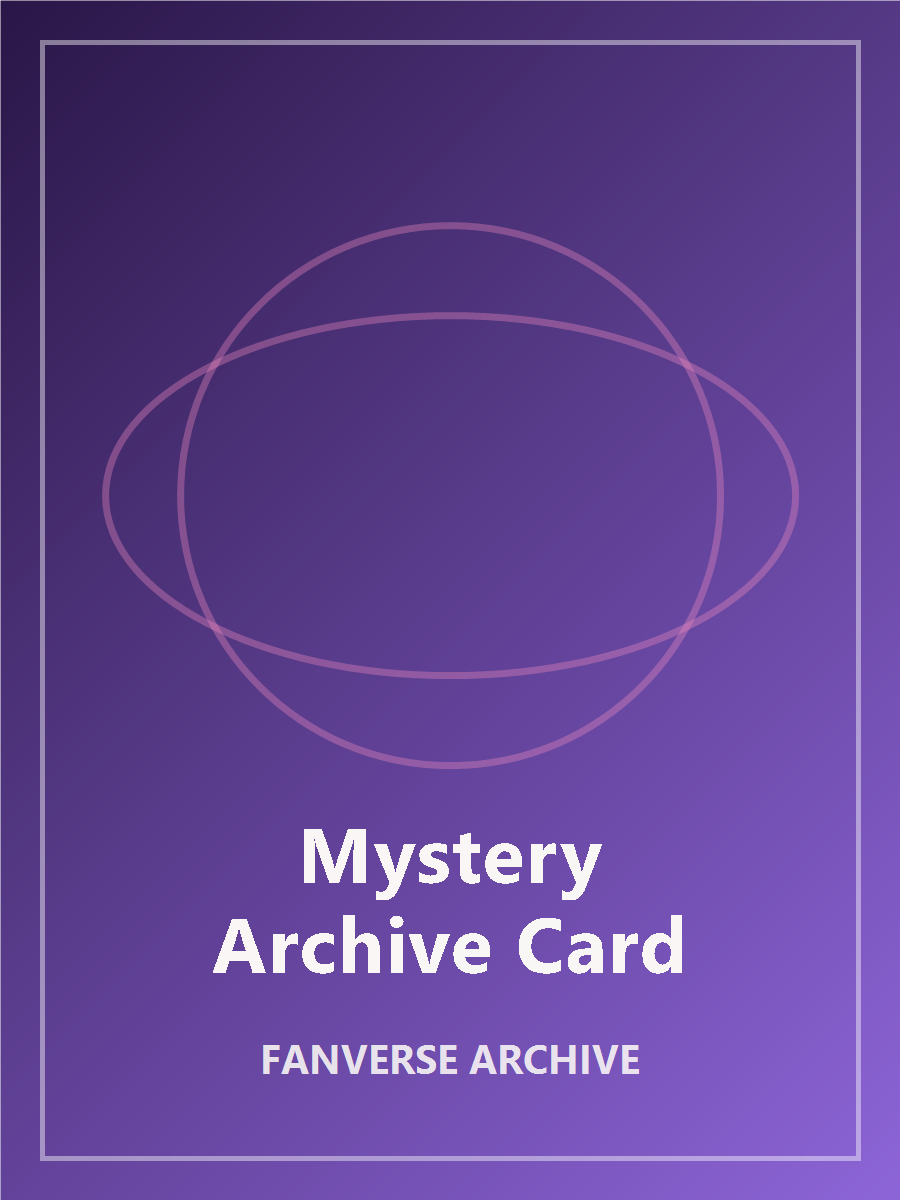
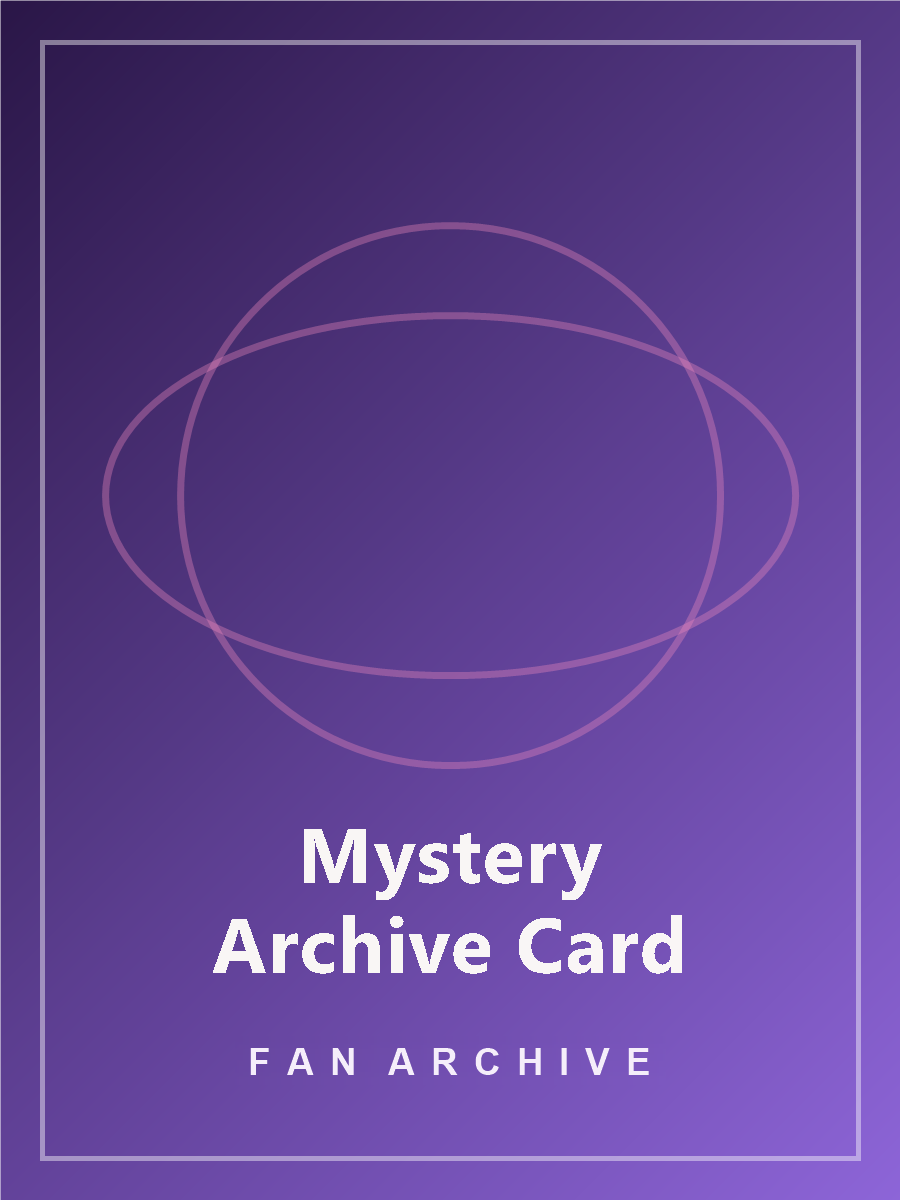
Changed the name from fanverse Archive to only Fan Archive

Changed region(s): [[0.28, 0.8633, 0.7156, 0.8942]]

diff --git a/src/components/Navbar/Navbar.jsx b/src/components/Navbar/Navbar.jsx
@@ -26,7 +26,7 @@ function Navbar() {
       .map((part) => part[0])
       .join('')
       .slice(0, 2)
-      .toUpperCase() || 'FV'
+      .toUpperCase() || 'FA'
 
   const handleSignOut = async () => {
     await signOut()
@@ -34,10 +34,10 @@ function Navbar() {
 
   return (
     <header className="navbar">
-      <NavLink aria-label="FanVerse Archive home" className="navbar__brand" to="/">
-        <img src="/logo.jpeg" className="navbar__mark" alt="FanVerse logo" />
+      <NavLink aria-label="Fan Archive home" className="navbar__brand" to="/">
+        <img src="/logo.jpeg" className="navbar__mark" alt="Fan Archive logo" />
         <span>
-          <strong>FanVerse</strong>
+          <strong>Fan</strong>
           <span>Archive</span>
         </span>
       </NavLink>

diff --git a/src/pages/CollectiblesPage/CollectiblesPage.jsx b/src/pages/CollectiblesPage/CollectiblesPage.jsx
@@ -512,8 +512,8 @@ function CollectiblesPage() {
             <strong>{unlockedCount}</strong>
             <span>Total cards unlocked</span>
             <ShareButton
-              text={`${profile?.display_name || 'A FanVerse fan'} completed their FanVerse Archive card collection.`}
-              title="FanVerse Archive Complete"
+              text={`${profile?.display_name || 'A Fan Archive fan'} completed their Fan Archive card collection.`}
+              title="Fan Archive Complete"
               variant="bright"
             >
               Share Collection
@@ -625,7 +625,7 @@ function CollectiblesPage() {
                     character={charactersById.get(card.character_id)}
                     key={card.id}
                     userStats={safeUserStats}
-                    username={profile?.display_name || 'A FanVerse fan'}
+                    username={profile?.display_name || 'A Fan Archive fan'}
                   />
                 ))}
               </div>
@@ -645,7 +645,7 @@ function CollectiblesPage() {
                     character={charactersById.get(card.character_id)}
                     key={card.id}
                     userStats={safeUserStats}
-                    username={profile?.display_name || 'A FanVerse fan'}
+                    username={profile?.display_name || 'A Fan Archive fan'}
                   />
                 ))}
               </div>

diff --git a/index.html b/index.html
@@ -4,7 +4,11 @@
     <meta charset="UTF-8" />
     <link rel="icon" type="image/svg+xml" href="/favicon.svg" />
     <meta name="viewport" content="width=device-width, initial-scale=1.0" />
-    <title>FanVerse Archive</title>
+    <meta
+      name="description"
+      content="Fan Archive helps fans preserve memories, document support, and build a personal fandom archive."
+    />
+    <title>Fan Archive</title>
   </head>
   <body>
     <div id="root"></div>

diff --git a/src/components/CollectibleCard/CollectibleCard.jsx b/src/components/CollectibleCard/CollectibleCard.jsx
@@ -15,7 +15,7 @@ const cardBackUrl = '/images/card-back.png'
 function CollectibleCard({
   card,
   character: providedCharacter,
-  username = 'A FanVerse fan',
+  username = 'A Fan Archive fan',
   userStats = {},
 }) {
   const isUnlocked = Boolean(card.unlocked)
@@ -114,7 +114,7 @@ function CollectibleCard({
               fileName={`${card.title}.png`}
               imageUrl={shareImageUrl}
               mode="image"
-              text={`${username} unlocked '${card.title}' on FanVerse Archive.`}
+              text={`${username} unlocked '${card.title}' on Fan Archive.`}
               title={card.title}
             >
               Share Card

diff --git a/src/components/InviteFansCard/InviteFansCard.jsx b/src/components/InviteFansCard/InviteFansCard.jsx
@@ -2,7 +2,7 @@ import ShareButton from '../ShareButton/ShareButton.jsx'
 import './InviteFansCard.css'
 
 function InviteFansCard({ artistName }) {
-  const inviteText = `I'm building a fan archive for ${artistName} on FanVerse Archive. Join and add your memories.`
+  const inviteText = `I'm building a fan archive for ${artistName} on Fan Archive. Join and add your memories.`
 
   return (
     <section className="invite-fans-card">
@@ -14,7 +14,7 @@ function InviteFansCard({ artistName }) {
       <ShareButton
         mode="invite"
         text={inviteText}
-        title={`FanVerse Archive: ${artistName}`}
+        title={`Fan Archive: ${artistName}`}
         url={window.location.origin}
         variant="bright"
       >

diff --git a/src/pages/AdminPage/AdminPage.jsx b/src/pages/AdminPage/AdminPage.jsx
@@ -845,7 +845,7 @@ function AdminPage() {
 
     await runAdminAction({
       id: artist.id,
-      successMessage: `${artist.name} was removed from FanVerse.`,
+      successMessage: `${artist.name} was removed from Fan Archive.`,
       action: async () => {
         await deleteArtistAdmin(artist.id)
         setDashboard((currentDashboard) => ({
@@ -1009,7 +1009,7 @@ function AdminPage() {
       <section className="admin-page__header">
         <div className="section-heading">
           <p className="section-kicker">Admin</p>
-          <h1>FanVerse Control Center</h1>
+          <h1>Fan Archive Control Center</h1>
           <p>
             Manage users, artists, characters, memories, badges, and moderation
             from one protected admin space.

diff --git a/src/pages/ExplorePage/ExplorePage.jsx b/src/pages/ExplorePage/ExplorePage.jsx
@@ -132,7 +132,7 @@ function ExplorePage() {
             <p className="section-kicker">Fandom</p>
             <h1>Choose your fandom first</h1>
             <p>
-              FanVerse Archive focuses on one Main Fandom / Artist for each fan
+              Fan Archive focuses on one Main Fandom / Artist for each fan
               profile.
             </p>
           </div>
@@ -198,7 +198,7 @@ function ExplorePage() {
               {artist?.image_url ? (
                 <img src={artist.image_url} alt="" />
               ) : (
-                <span>{artist?.name?.slice(0, 2).toUpperCase() || 'FV'}</span>
+                <span>{artist?.name?.slice(0, 2).toUpperCase() || 'FA'}</span>
               )}
             </div>
             <div>

diff --git a/src/pages/ProfilePage/ProfilePage.jsx b/src/pages/ProfilePage/ProfilePage.jsx
@@ -254,7 +254,7 @@ function ProfilePage() {
             {avatarPreview || formData.avatar_url ? (
               <img src={avatarPreview || formData.avatar_url} alt="" />
             ) : (
-              <span>{formData.display_name.slice(0, 2).toUpperCase() || 'FV'}</span>
+              <span>{formData.display_name.slice(0, 2).toUpperCase() || 'FA'}</span>
             )}
           </div>
           <h2>{formData.display_name || 'Fan Explorer'}</h2>
@@ -319,7 +319,7 @@ function ProfilePage() {
             <textarea
               name="bio"
               onChange={handleChange}
-              placeholder="Tell the FanVerse a little about your support journey."
+              placeholder="Tell Fan Archive a little about your support journey."
               rows="5"
               value={formData.bio}
             ></textarea>

diff --git a/src/utils/shareUtils.js b/src/utils/shareUtils.js
@@ -58,11 +58,11 @@ export const shareText = async ({ text, title, url }) => {
   return copyStatus === 'copied' ? 'copied' : 'unsupported'
 }
 
-const getSafeFileName = (fileName = 'fanverse-card.png') =>
+const getSafeFileName = (fileName = 'fan-archive-card.png') =>
   fileName
     .trim()
     .replace(/[^a-z0-9._-]+/gi, '-')
-    .replace(/^-+|-+$/g, '') || 'fanverse-card.png'
+    .replace(/^-+|-+$/g, '') || 'fan-archive-card.png'
 
 export const shareImage = async ({ fileName, imageUrl, text, title }) => {
   const fallbackText = [text, imageUrl].filter(Boolean).join(' ')

diff --git a/src/components/ArtistCard/ArtistCard.jsx b/src/components/ArtistCard/ArtistCard.jsx
@@ -17,7 +17,7 @@ function ArtistCard({ artist }) {
           <span>{artist.category}</span>
         </div>
         <h3>{artist.name}</h3>
-        <p>{artist.description || 'A growing artist archive in the FanVerse.'}</p>
+        <p>{artist.description || 'A growing artist archive in Fan Archive.'}</p>
         <div className="artist-card__stats">
           <span>{artist.fanCount || 0} fans</span>
           <span>{artist.memoryCount || 0} memories</span>

diff --git a/src/components/BadgeCard/BadgeCard.jsx b/src/components/BadgeCard/BadgeCard.jsx
@@ -19,7 +19,7 @@ function BadgeCard({ badge, compact = false }) {
         <p>{badge.description}</p>
         {badge.unlocked && !compact && (
           <ShareButton
-            text={`I just unlocked '${badge.title}' on FanVerse Archive. My fan journey keeps growing.`}
+            text={`I just unlocked '${badge.title}' on Fan Archive. My fan journey keeps growing.`}
             title={badge.title}
           >
             Share Badge

diff --git a/src/data/archiveCharacters.js b/src/data/archiveCharacters.js
@@ -334,4 +334,4 @@ export const getCharacterFragments = ({
 }
 
 export const createCharacterShareText = (character) =>
-  `I unlocked ${character.name} - ${character.fullTitle} from Archive Zero on FanVerse Archive.`
+  `I unlocked ${character.name} - ${character.fullTitle} from Archive Zero on Fan Archive.`